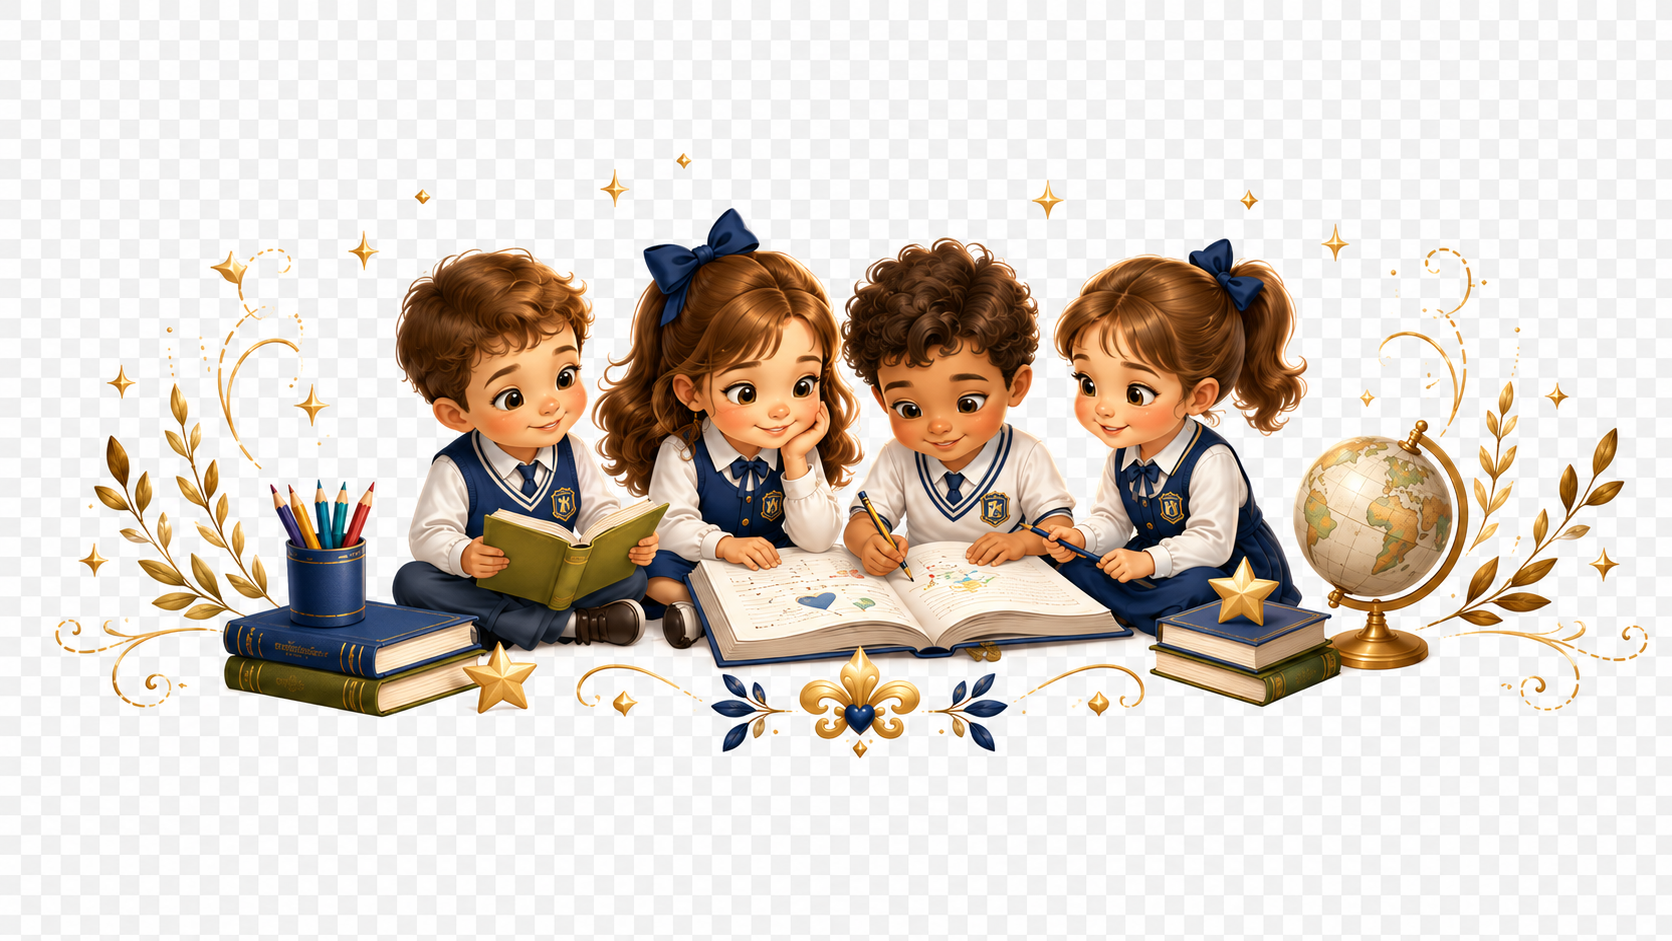
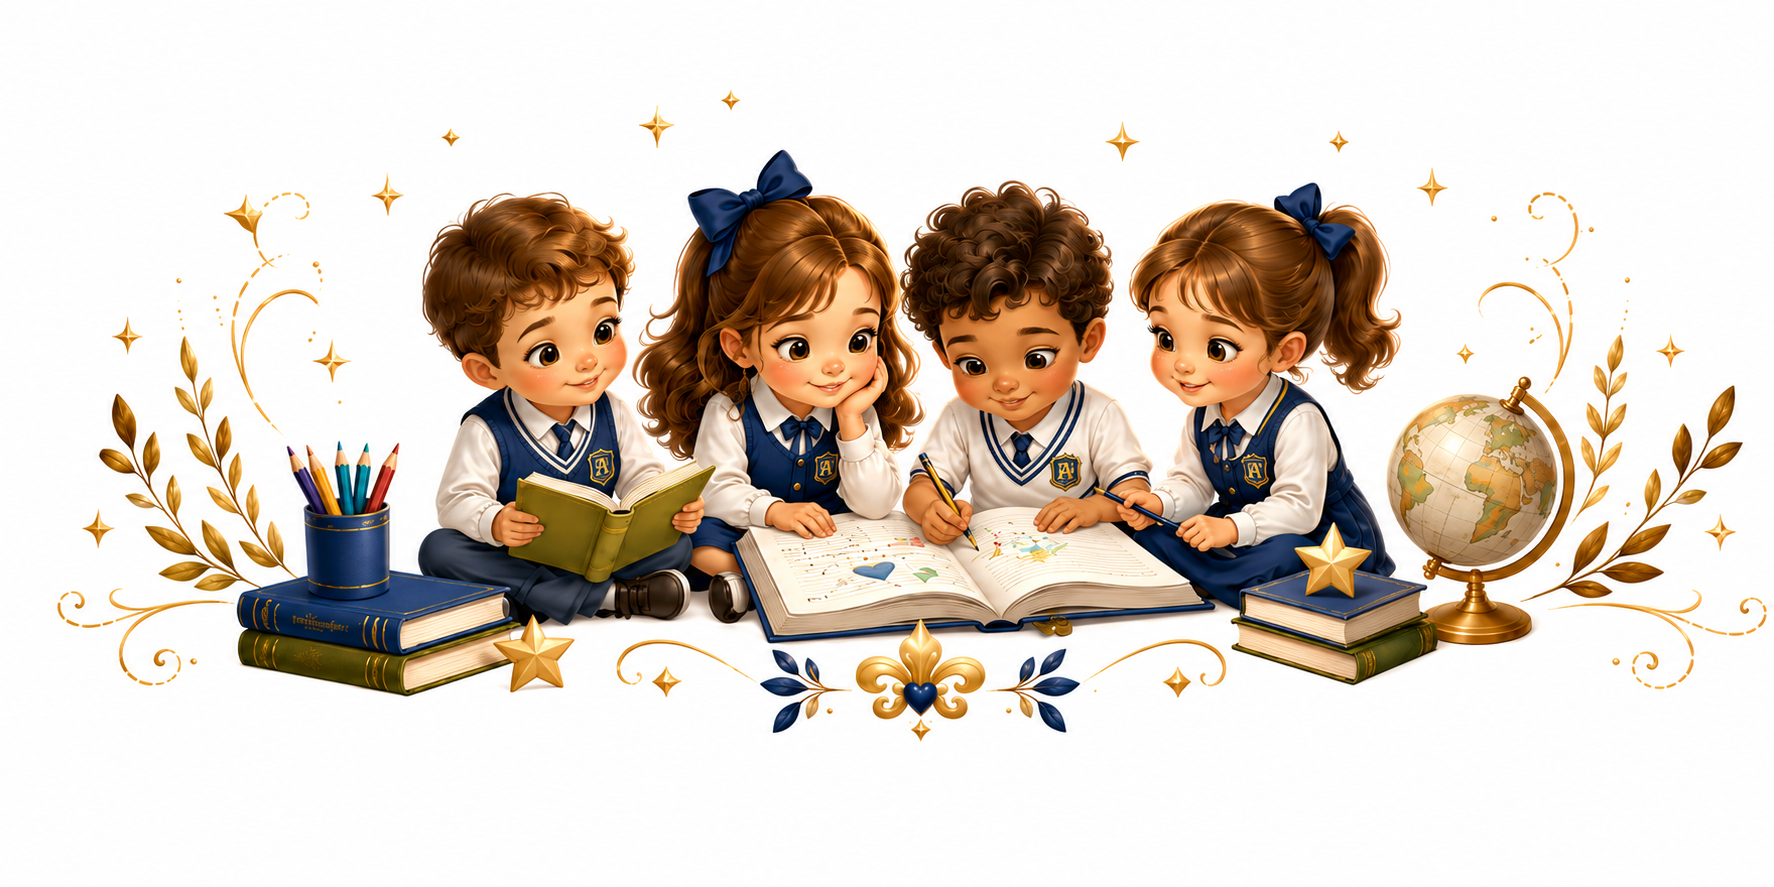
Ampliar ilustracion inferior de portada

diff --git a/src/pages/Libretas.jsx b/src/pages/Libretas.jsx
@@ -134,7 +134,7 @@ function imprimirLibreta(data, ventana) {
     .sheet:first-of-type .spread>.panel.brand>p.serif{margin:2.2mm 2mm 1.5mm;font-size:2.7mm}
     .sheet:first-of-type .spread>.panel.brand>.identity:last-child{margin-top:1mm;padding:2mm 4mm}
     .sheet:first-of-type .spread>.panel.brand>.identity:last-child:after{content:'❦';position:absolute;left:50%;bottom:1mm;transform:translateX(-50%);color:#b9822f;font-size:4.5mm}
-    .sheet:first-of-type .cover-children{display:block;width:90%;height:43mm;object-fit:contain;object-position:center bottom;margin:auto auto 0;mix-blend-mode:multiply}
+    .sheet:first-of-type .cover-children{display:block;width:100%;height:51mm;object-fit:contain;object-position:center bottom;margin:auto auto -1mm}
   </style>`;
   let htmlFinal = html
     .replace(/<tbody><tr><td>Acompañamiento y apoyo familiar<\/td>.*?<\/tr><\/tbody>/, `<tbody>${filasPadre}</tbody>`)